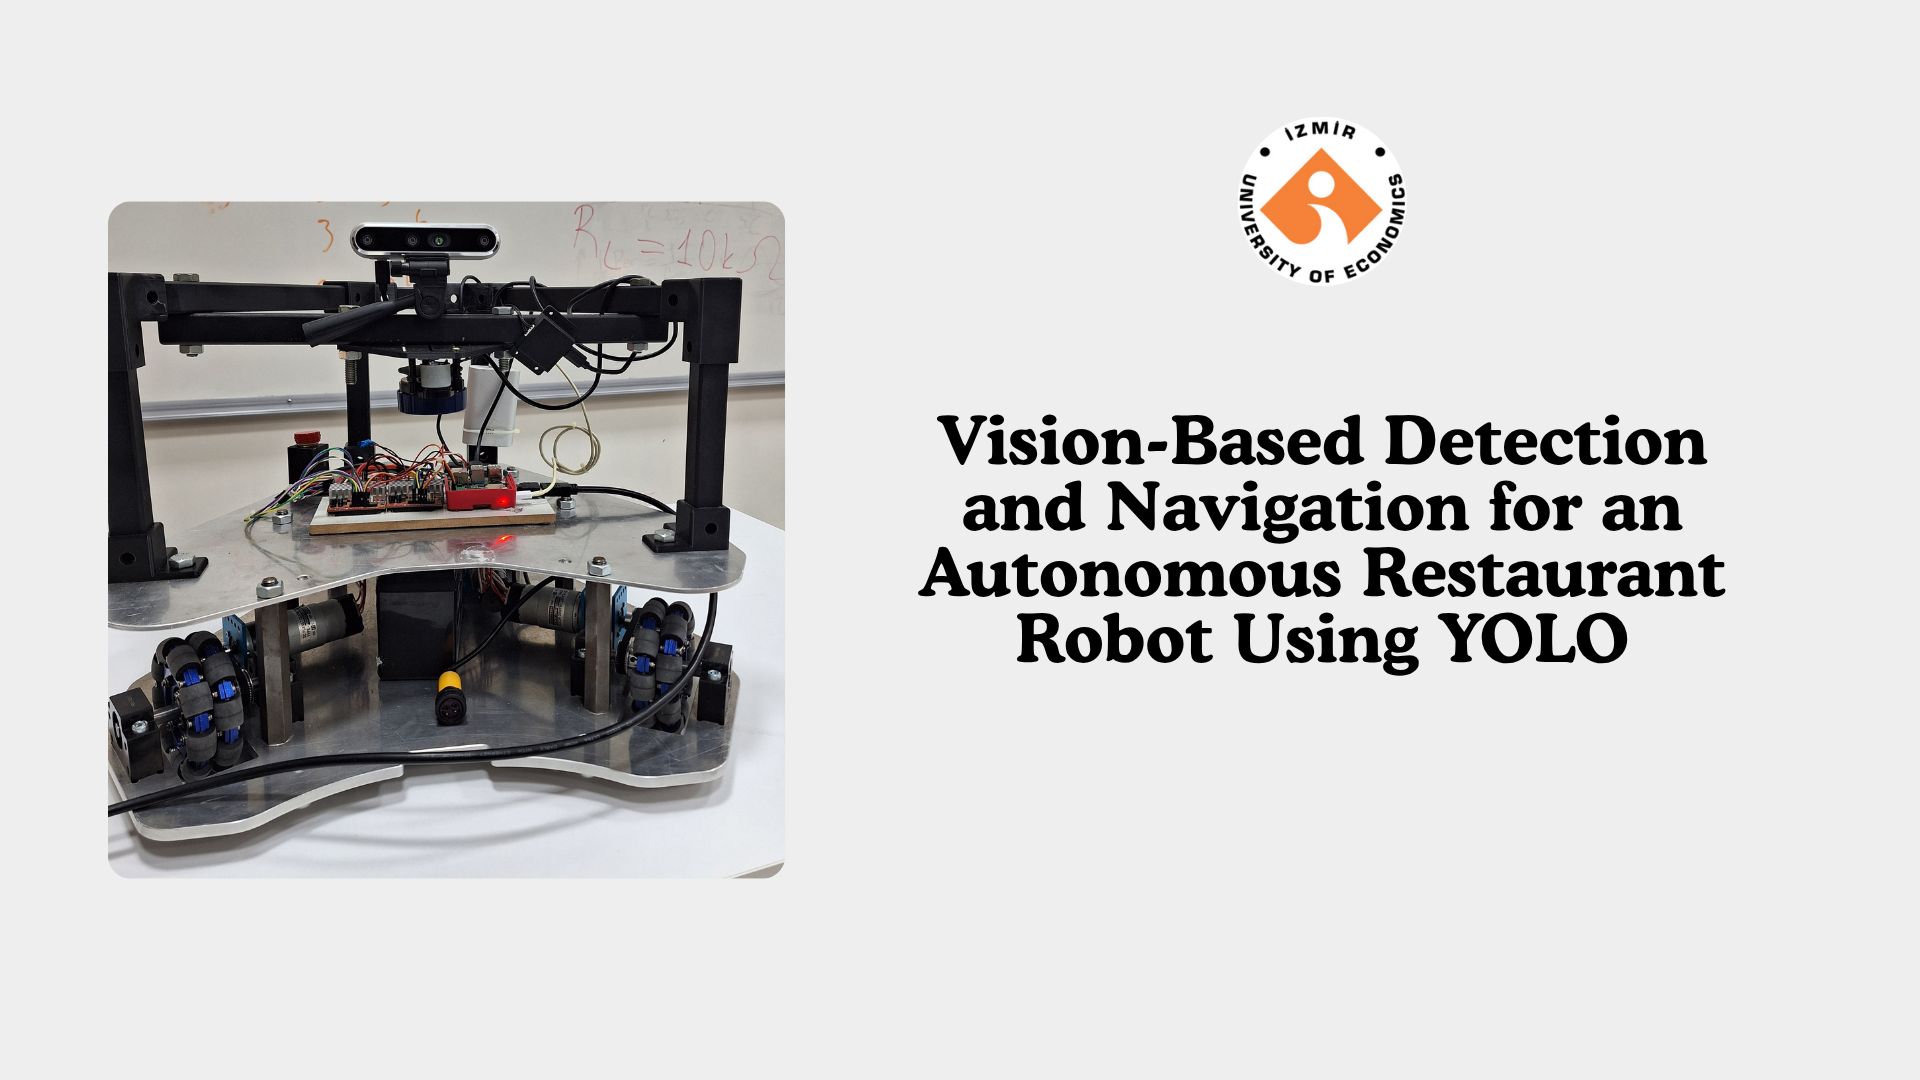
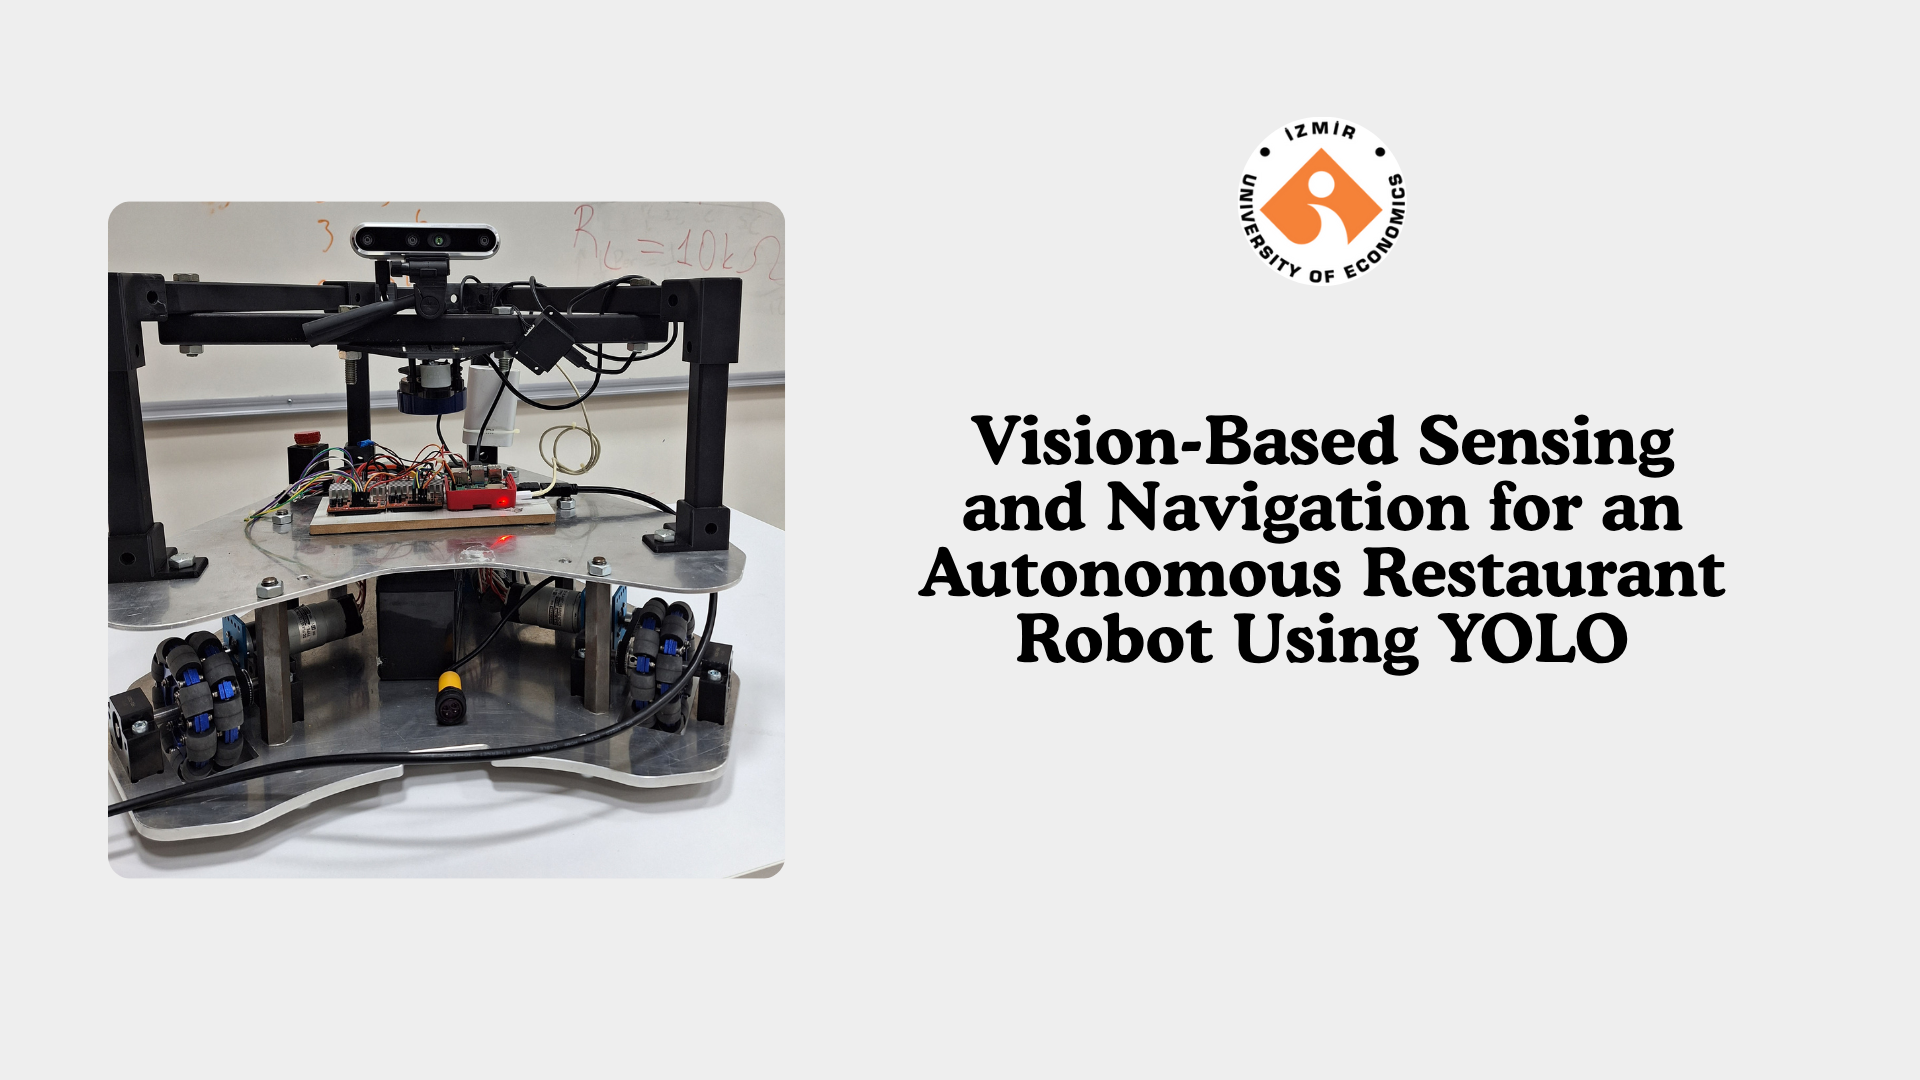
graduation project description was updated

Changed region(s): [[0.4688, 0.3667, 0.9062, 0.4583]]

diff --git a/index.html b/index.html
@@ -1095,7 +1095,7 @@
                         <div class="portfolio__content grid swiper-slide">
                             <img src="assets/img/r.png" alt="" class="portfolio_img">
                             <div class="portfolio__data">
-                                <h3 class="portfolio__title">Vision-Based Detection and Navigation for an Autonomous Restaurant Robot Using YOLO</h3>
+                                <h3 class="portfolio__title">Vision-Based Sensing and Navigation for an Autonomous Restaurant Robot Using YOLO</h3>
                                 <p class="portfolio__description">In this project, the robot integrates YOLOv8, an Intel RealSense camera, and a LiDAR sensor to perceive and interpret its surroundings in real time, especially in crowded and dynamic environments.
 </p>
                                 <a href="#" class="button button--flex button--small portfolio__button"
